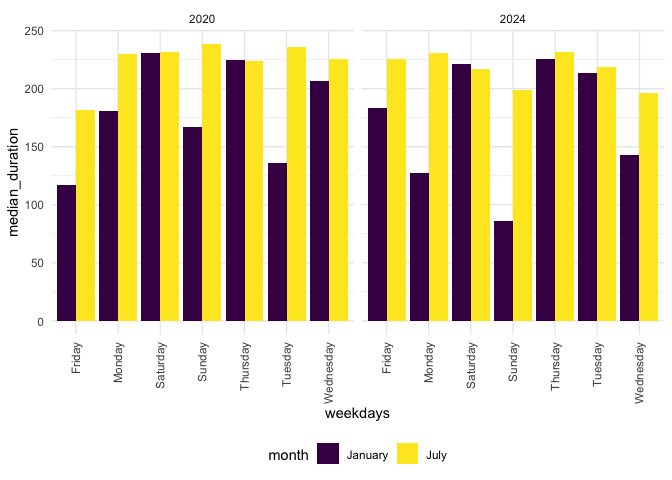
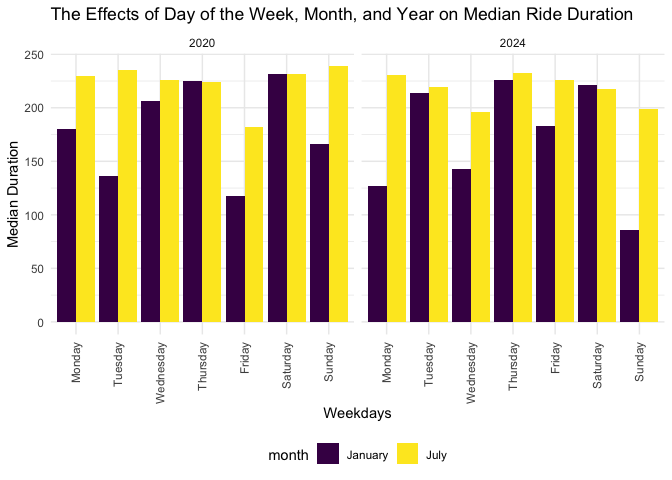
added more plots for p3 and added descriptions for datasets and plots

diff --git a/P8105_hw3_zl3545.md b/P8105_hw3_zl3545.md
@@ -169,7 +169,8 @@ Sex and Education Level Table
 
 In the categories of “less than high school level” and “more than high
 school level”, there are slightly more women than men. But there are
-significantly more men than women with a high school equivalent level.
+significantly more men than women with a high school equivalent
+education level.
 
 ## Plot age distributions
 
@@ -210,10 +211,44 @@ aggr_mims =
                names_prefix = "min",
                values_to = "mims") |> 
   group_by(time, sex, education, mims) |> 
+  mutate(time = as.numeric(time),
+         median_mims = median(mims))
+
+aggr_mims |> 
+  ggplot(aes(x = time,
+             y = median_mims,
+             color = sex)) +
+  geom_point(alpha = 0.1) +
+  geom_smooth(se = FALSE) +
+  facet_grid(~ education) +
+  labs(title = "Median MIMS Activity across Age for Different Education Levels") +
+  ylab("Median MIMS") +
+  xlab("Time")
+```
+
+![](P8105_hw3_zl3545_files/figure-gfm/aggregate_plot-1.png)<!-- --> From
+the plot above, we can see that overall, the median MIMS activity for
+men and women are roughly in the same range. For people with a “more
+than high school” education level, the median MIMS activities for some
+women are higher at 8:30am in the morning (at around 500th minute), and
+the median MIMS activities for some men are higher at 8:30pm at night
+(at around 1250th minute). Besides this, overall, the trend lines and
+scattered points look roughly similar across education levels.
+
+## Avgerage 24-hour MIMS data and plot
+
+``` r
+mean_mims = 
+  mims |> 
+  pivot_longer(min1:min1440,
+               names_to = "time", 
+               names_prefix = "min",
+               values_to = "mims") |> 
+  group_by(time, sex, education, mims) |> 
   mutate(time = as.numeric(time)) |> 
   summarize(mean_mims = mean(mims))
 
-aggr_mims |> 
+mean_mims |> 
   ggplot(aes(x = time,
              y = mean_mims,
              color = sex)) +
@@ -225,7 +260,9 @@ aggr_mims |>
   xlab("Time")
 ```
 
-![](P8105_hw3_zl3545_files/figure-gfm/aggregate_plot-1.png)<!-- -->
+![](P8105_hw3_zl3545_files/figure-gfm/mean_plot-1.png)<!-- --> From the
+plot above, we can see that overall, the mean MIMS activity for men and
+women roughly follow the same trend as the median MIMS plot above.
 
 # Problem 3
 
@@ -251,8 +288,24 @@ july_24 = read_csv("data/July 2024 Citi.csv") |>
 citi = bind_rows(jan_20,
                  jan_24,
                  july_20,
-                 july_24)
+                 july_24) |> 
+  mutate(weekdays = factor(weekdays,
+                           level = c("Monday",
+                                     "Tuesday",
+                                     "Wednesday",
+                                     "Thursday",
+                                     "Friday",
+                                     "Saturday",
+                                     "Sunday")),
+         year = as.character(year),
+         month = as.character(month))
 ```
+
+The resulting dataset contains information about 9.9484^{4} CitiBike
+rides in January 2020, January 2024, July 2020, and July 2024. The
+variables that describes these rides are ride_id, rideable_type,
+weekdays, duration, start_station_name, end_station_name, member_casual,
+month, year.
 
 ## Create table
 
@@ -284,6 +337,10 @@ knitr::kable(member_casual,
 Total Number of Rides from Casual Riders and Members across Years and
 Months
 
+From the table above, we can see that in general, more there are more
+rides in July than in January. In addition, there more a lot more users
+in 2024 than in 2020, and more riders became members in 2024.
+
 ## Top 5 Start Stations
 
 ``` r
@@ -291,35 +348,34 @@ top_stations =
   july_24 |> 
   count(start_station_name) |> 
   arrange(desc(n)) |>
-  head(5)
+  head(5) 
 
 knitr::kable(top_stations,
-             caption = "Top 5 Start Stations")
+             caption = "Top 5 Start Stations",
+             col.names = c("Start station",
+                          "Count"))
 ```
 
-| start_station_name       |   n |
-|:-------------------------|----:|
-| Pier 61 at Chelsea Piers | 163 |
-| University Pl & E 14 St  | 155 |
-| W 21 St & 6 Ave          | 152 |
-| West St & Chambers St    | 150 |
-| W 31 St & 7 Ave          | 146 |
+| Start station            | Count |
+|:-------------------------|------:|
+| Pier 61 at Chelsea Piers |   163 |
+| University Pl & E 14 St  |   155 |
+| W 21 St & 6 Ave          |   152 |
+| West St & Chambers St    |   150 |
+| W 31 St & 7 Ave          |   146 |
 
 Top 5 Start Stations
 
-## Effect of day of the week, month, and year on median ride durations
+## Effects on ride duration
+
+### Day of the week, year, and month
 
 ``` r
 median_duration = 
   citi |> 
   group_by(weekdays, year, month, duration) |> 
-  summarize(median_duration = median(duration)) 
-```
+  summarize(median_duration = median(duration, na.rm = TRUE)) 
 
-    ## `summarise()` has grouped output by 'weekdays', 'year', 'month'. You can
-    ## override using the `.groups` argument.
-
-``` r
 median_duration |> 
   ggplot(aes(x = weekdays,
              y = median_duration,
@@ -329,12 +385,23 @@ median_duration |>
   theme(axis.text.x = element_text(angle = 90,
                                    vjust = 0.5,
                                    hjust = 1))  +
-  facet_grid(~ year)
+  facet_grid(~ year) +
+  labs(title = "The Effects of Day of the Week, Month, and Year on Median Ride Duration") +
+  ylab("Median Duration") +
+  xlab("Weekdays")
 ```
 
-![](P8105_hw3_zl3545_files/figure-gfm/duration_1-1.png)<!-- -->
+![](P8105_hw3_zl3545_files/figure-gfm/duration_1-1.png)<!-- --> From the
+side-by-side bar plot above, we can see that in general, the median ride
+duration in July are longer than those in January. This is possibly
+because riders want to minimize their time outdoor in the cold weather
+in January. The effect of year and day of the week are less significant,
+but we can note that in January 2020, ride durations during weekdays are
+shorter than that in the same month in 2024; likewise, in January 2024,
+ride durations during weekends are shorter than that in the same month
+in 2020.
 
-## Effect of month, membership status, and bike type on ride duration
+### Month, membership status, and bike type
 
 ``` r
 bike_type = 
@@ -342,13 +409,20 @@ bike_type =
   filter(year == "2024") |> 
   group_by(rideable_type, month, member_casual, duration)
     
-
 bike_type |> 
   ggplot(aes(x = month,
              y = duration,
              fill = member_casual)) + 
-  geom_bar(stat = "identity",
-           position = "dodge")
+  geom_boxplot() +
+  facet_grid(~ rideable_type) +
+  labs(title = "Effect of Month, Membership Status, and Bike Type on Ride Duration") +
+  ylab("Duration") +
+  xlab("Month")
 ```
 
-![](P8105_hw3_zl3545_files/figure-gfm/duration_2-1.png)<!-- -->
+![](P8105_hw3_zl3545_files/figure-gfm/duration_2-1.png)<!-- --> From the
+boxplots above, we can see the the distributions are very clustered
+around the medians, which are all around 15. There are many outliers at
+the top of all of boxplots, meaning that some users prefer to ride
+CitiBike for a much longer duration than typical CitiBike users. We can
+also note that casual bikers tend to have longer rides than members.
